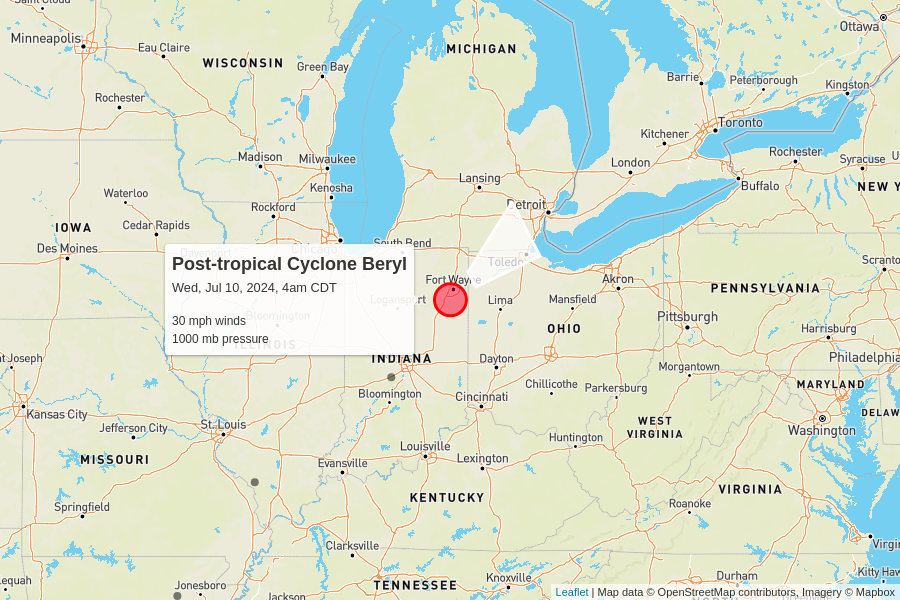
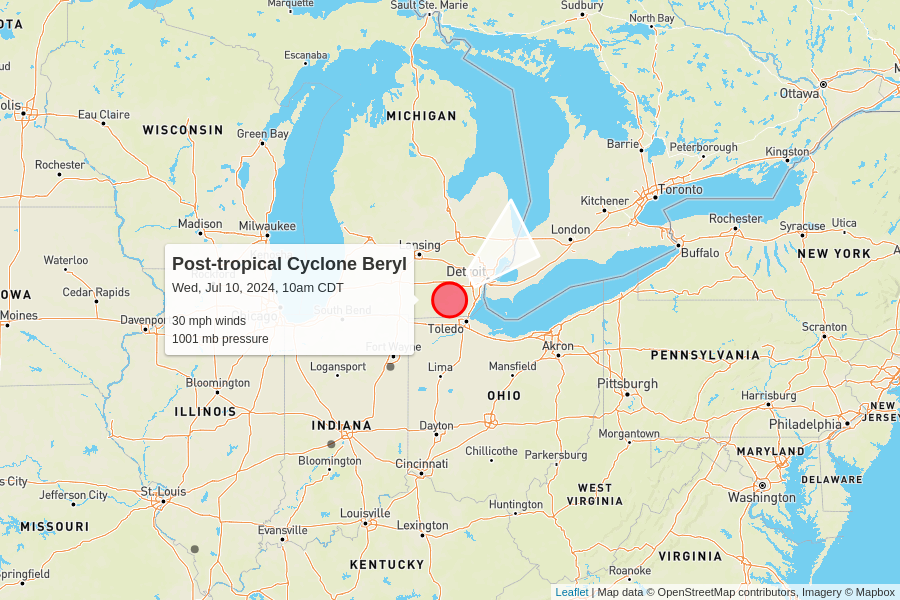
automatic update

diff --git a/docs/index.html b/docs/index.html
@@ -102,7 +102,7 @@
         <td colspan="6" class="storm category-0" >
           <h2>
             Post-tropical Cyclone Beryl
-            <p class="updated">last updated <span data-time>2024-07-10T09:00:00.000Z</span></p>
+            <p class="updated">last updated <span data-time>2024-07-10T15:00:00.000Z</span></p>
           </h2>
         </td>
       </tr>
@@ -118,7 +118,7 @@
       <tr>
         <td class="spacer"></td>
         <td>30 mph<br>0 mph since last update</td>
-        <td>1000 mb<br>-4 mb since last update</td>
+        <td>1001 mb<br>+1 mb since last update</td>
         <td>
           20 mph to the northeast
           <br/>
